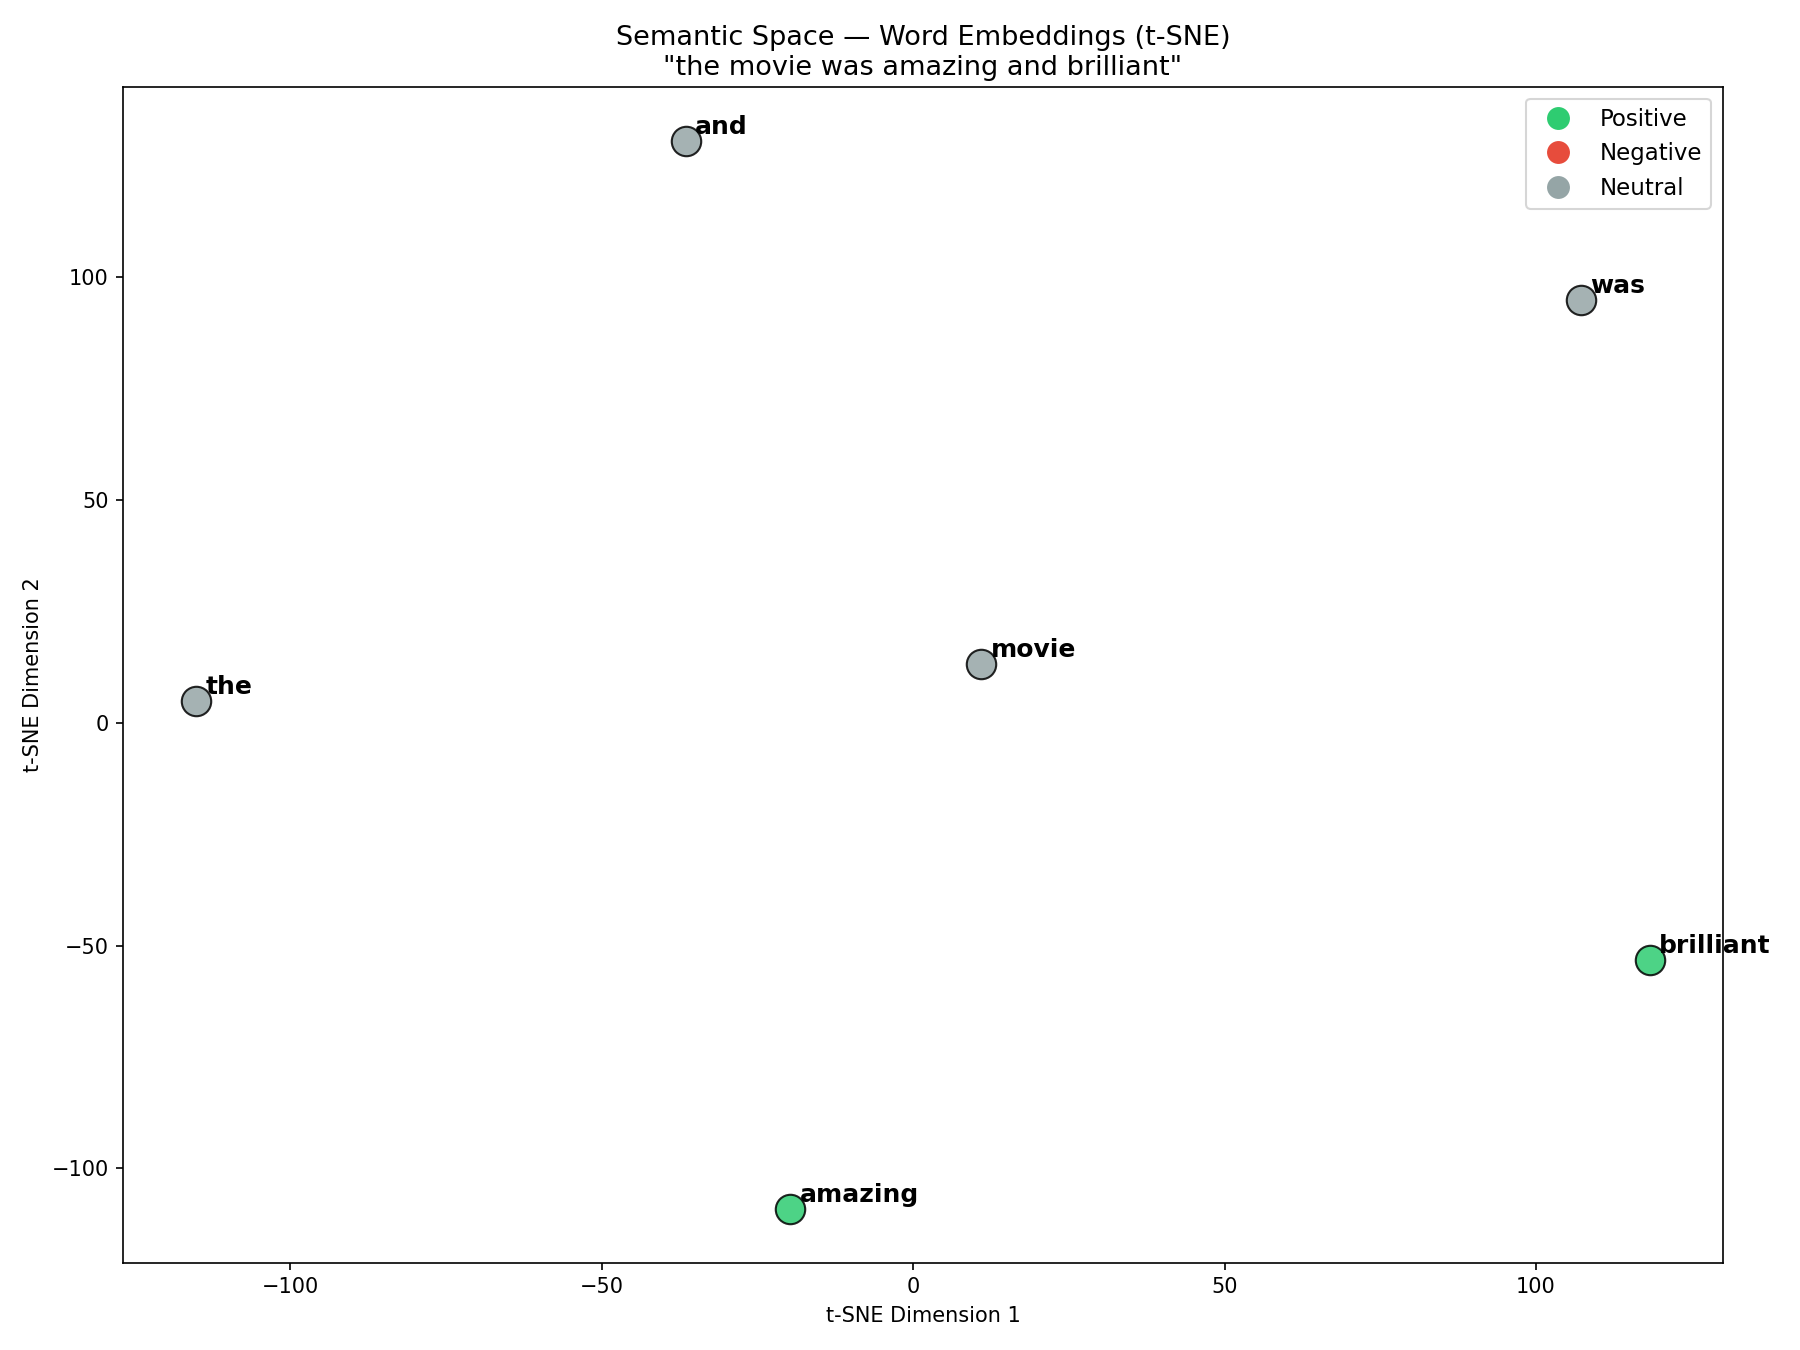
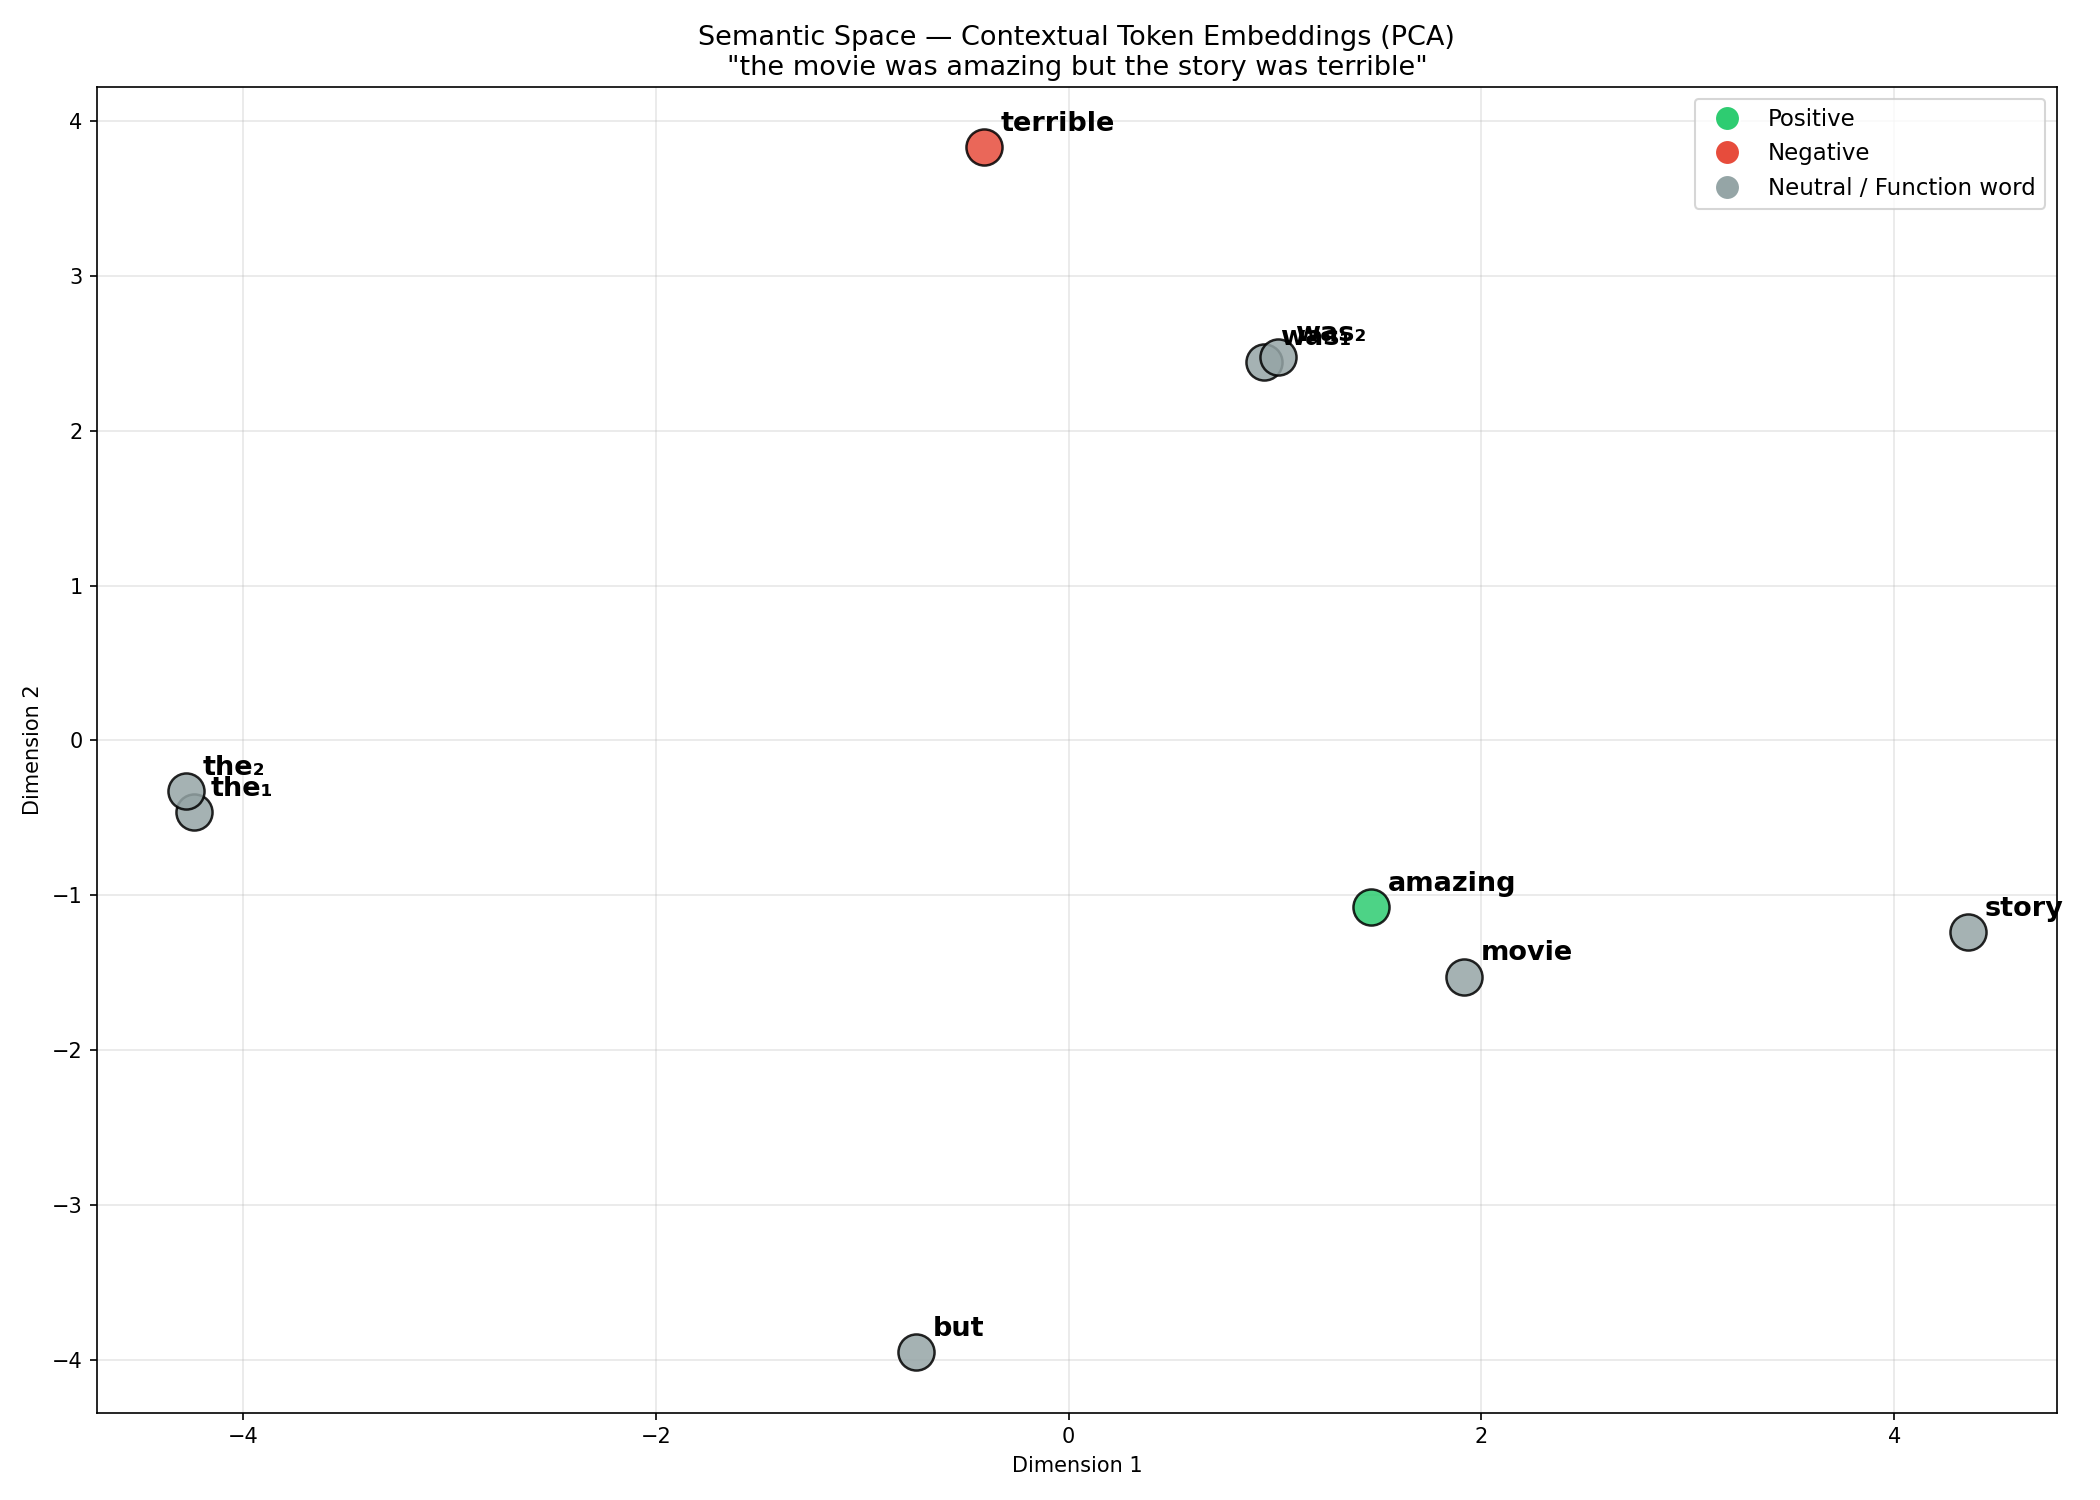
Changing attention map file

diff --git a/visualization/attention.py b/visualization/attention.py
@@ -4,31 +4,26 @@ import torch
 import numpy as np
 import matplotlib.pyplot as plt
 import seaborn as sns
-from sklearn.manifold import TSNE
+from sklearn.decomposition import PCA
 from tiny_bert import TinyBERT, SimpleTokenizer
 
-# Resolve paths relative to project root
+
 _PROJECT_ROOT = os.path.dirname(os.path.dirname(os.path.abspath(__file__)))
 _DATA_DIR = os.path.join(_PROJECT_ROOT, "data")
 _OUTPUT_DIR = os.path.join(_PROJECT_ROOT, "outputs")
 
-
-# Words the model learned as positive/negative from training
+# Words to visualize
 POSITIVE_WORDS = {
     "amazing", "wonderful", "loved", "great", "fantastic", "brilliant",
-    "masterpiece", "best", "incredible", "outstanding", "beautiful",
-    "superb", "excellent", "inspiring", "remarkable", "stunning",
-    "delightful", "heartwarming", "perfect",
+    "masterpiece", "best", "excellent"
 }
 NEGATIVE_WORDS = {
     "terrible", "boring", "predictable", "bad", "worst", "awful",
-    "horrible", "disaster", "poorly", "dull", "disappointing", "painful",
-    "ugly", "dreadful", "weak", "hated", "poor", "lazy", "waste",
+    "horrible", "disaster", "disappointed"
 }
 
 
 def get_word_color(word):
-    """Color by semantic role: green=positive, red=negative, gray=neutral."""
     if word in POSITIVE_WORDS:
         return "#2ecc71"
     elif word in NEGATIVE_WORDS:
@@ -37,7 +32,7 @@ def get_word_color(word):
 
 
 def visualize_attention(bert_model, tokenizer, text, layer=0):
-    """Plot attention heatmap for a single sentence."""
+    """Plotting attention heatmap"""
     word_ids = tokenizer.encode(text, max_length=20, add_new_words=False)
     tokens = text.lower().split()
 
@@ -71,120 +66,111 @@ def visualize_attention(bert_model, tokenizer, text, layer=0):
 
 
 def run_visualization():
-    # Load training texts to rebuild vocabulary
-    training_texts = []
+    print("1. Rebuilding Tokenizer from reviews.csv")
+    tokenizer = SimpleTokenizer()
     csv_path = os.path.join(_DATA_DIR, "reviews.csv")
     with open(csv_path, newline="") as f:
         reader = csv.DictReader(f)
         for row in reader:
             if row["category"] in ("positive", "negative"):
-                training_texts.append(row["text"])
-
-    tokenizer = SimpleTokenizer()
-    for text in training_texts:
-        tokenizer.encode(text)
+                tokenizer.encode(row["text"])
+    print(f"   Vocabulary size: {len(tokenizer.word_to_id)}")
 
     # Load the fine-tuned BERT encoder
+    print("2. Loading Model")
     bert_model = TinyBERT(vocab_size=len(tokenizer.word_to_id), hidden_size=32, num_layers=2)
     model_path = os.path.join(_OUTPUT_DIR, "trained_bert.pt")
+
+    if not os.path.exists(model_path):
+        print(f"ERROR: '{model_path}' not found.")
+        print("Run 'python -m tasks.sentiment' first to train and save the model.")
+        return
+
     bert_model.load_state_dict(torch.load(model_path, weights_only=True))
     bert_model.eval()
-    print(f"Loaded fine-tuned BERT encoder from '{model_path}'")
+    print(f"   Loaded fine-tuned BERT from '{model_path}'")
 
+    # Attention Heatmaps
     sentence = "the movie was amazing and brilliant"
+    print(f"\n3. Generating Attention Maps for: '{sentence}'")
 
     output_dir = os.path.join(_OUTPUT_DIR, "attention_maps")
     os.makedirs(output_dir, exist_ok=True)
 
-    # Attention heatmaps for both layers
     for layer in range(2):
         fig = visualize_attention(bert_model, tokenizer, sentence, layer=layer)
         filename = os.path.join(output_dir, f"attention_layer{layer + 1}.png")
         fig.savefig(filename, dpi=150)
-        print(f"Saved: {filename}")
+        print(f"   Saved: {filename}")
         plt.close(fig)
 
-    # Semantic Space: t-SNE of word embeddings for this sentence
-    print("\nGenerating semantic space visualization...")
+    semantic_sentence = "the movie was amazing but the story was terrible"
+    print(f"\n4. Generating Semantic Space for: '{semantic_sentence}'")
 
+    tokens = semantic_sentence.lower().split()
     word_embeddings = bert_model.word_embed.weight.detach().numpy()
 
-    # Get unique words from the sentence and their embeddings
-    tokens = sentence.lower().split()
-    seen = set()
-    unique_words = []
+
+    embeddings = []
     for w in tokens:
-        if w not in seen and w in tokenizer.word_to_id:
-            unique_words.append(w)
-            seen.add(w)
+        wid = tokenizer.word_to_id.get(w, 1)
+        embeddings.append(word_embeddings[wid])
+    embeddings = np.array(embeddings)
 
-    word_ids = [tokenizer.word_to_id[w] for w in unique_words]
-    embeddings = word_embeddings[word_ids]
+    # Build display labels
+    word_counts = {}
+    display_labels = []
+    subscripts = "₁₂₃₄₅₆₇₈₉"
+    for word in tokens:
+        word_counts[word] = word_counts.get(word, 0) + 1
+    occurrence = {}
+    for word in tokens:
+        if word_counts[word] > 1:
+            occurrence[word] = occurrence.get(word, 0) + 1
+            display_labels.append(f"{word}{subscripts[occurrence[word] - 1]}")
+        else:
+            display_labels.append(word)
 
-    # t-SNE: 32 dimensions -> 2 dimensions
-    perp = min(5, len(embeddings) - 1)
-    tsne = TSNE(n_components=2, perplexity=perp, random_state=42, init="pca", learning_rate="auto")
-    reduced = tsne.fit_transform(embeddings)
+    # PCA: 32-d  →  2-d
+    pca = PCA(n_components=2)
+    reduced = pca.fit_transform(embeddings)
 
-    # Color each word by sentiment role
-    token_colors = [get_word_color(w) for w in unique_words]
+    np.random.seed(42)
+    seen_positions = {}
+    for i, word in enumerate(tokens):
+        key = tokenizer.word_to_id.get(word, 1)
+        if key in seen_positions:
+            reduced[i] += np.random.uniform(-0.15, 0.15, size=2)
+        seen_positions[key] = i
 
-    plt.figure(figsize=(12, 9))
-    for i, word in enumerate(unique_words):
-        plt.scatter(reduced[i, 0], reduced[i, 1], c=token_colors[i], s=200,
-                    edgecolor="black", alpha=0.85, zorder=2)
-        plt.annotate(word, (reduced[i, 0] + 1.5, reduced[i, 1] + 1.5),
-                     fontsize=12, fontweight="bold")
+    # Plotting
+    token_colors = [get_word_color(w) for w in tokens]
+
+    plt.figure(figsize=(14, 10))
+    for i, (word, label) in enumerate(zip(tokens, display_labels)):
+        plt.scatter(reduced[i, 0], reduced[i, 1], c=token_colors[i], s=300,
+                    edgecolor="black", linewidth=1.2, alpha=0.85, zorder=2)
+        plt.annotate(label, (reduced[i, 0], reduced[i, 1]),
+                     textcoords="offset points", xytext=(8, 8),
+                     fontsize=13, fontweight="bold")
 
     from matplotlib.lines import Line2D
     legend_elements = [
         Line2D([0], [0], marker="o", color="w", label="Positive", markerfacecolor="#2ecc71", markersize=12),
         Line2D([0], [0], marker="o", color="w", label="Negative", markerfacecolor="#e74c3c", markersize=12),
-        Line2D([0], [0], marker="o", color="w", label="Neutral", markerfacecolor="#95a5a6", markersize=12),
+        Line2D([0], [0], marker="o", color="w", label="Neutral / Function word", markerfacecolor="#95a5a6", markersize=12),
     ]
     plt.legend(handles=legend_elements, loc="best", fontsize=11)
 
-    plt.title(f"Semantic Space — Word Embeddings (t-SNE)\n\"{sentence}\"", fontsize=13)
-    plt.xlabel("t-SNE Dimension 1")
-    plt.ylabel("t-SNE Dimension 2")
+    plt.title(f"Semantic Space — Contextual Token Embeddings (PCA)\n\"{semantic_sentence}\"", fontsize=13)
+    plt.xlabel("Dimension 1")
+    plt.ylabel("Dimension 2")
+    plt.grid(True, alpha=0.3)
     plt.tight_layout()
-    tsne_path = os.path.join(output_dir, "semantic_space.png")
-    plt.savefig(tsne_path, dpi=150)
-    print(f"Saved: {tsne_path}")
-    plt.close()
-
-    # Cosine similarity heatmap for the sentence tokens (using contextual hidden states)
-    print("Generating cosine similarity heatmap...")
-    word_ids_sent = tokenizer.encode(sentence, max_length=20, add_new_words=False)
-    input_ids = torch.tensor([word_ids_sent])
-    with torch.no_grad():
-        hidden_states = bert_model(input_ids)
-
-    sent_tokens = sentence.lower().split()
-    num_real = min(len(sent_tokens), 20)
-    sent_tokens = sent_tokens[:num_real]
-    sent_embeddings = hidden_states[0, :num_real, :].numpy()
-
-    norms = np.linalg.norm(sent_embeddings, axis=1, keepdims=True)
-    cosine_sim = (sent_embeddings @ sent_embeddings.T) / (norms @ norms.T)
-
-    plt.figure(figsize=(10, 8))
-    sns.heatmap(
-        cosine_sim,
-        xticklabels=sent_tokens,
-        yticklabels=sent_tokens,
-        cmap="RdYlGn",
-        annot=True,
-        fmt=".2f",
-        square=True,
-        vmin=-1, vmax=1,
-    )
-    plt.title(f"Cosine Similarity Between Token Embeddings\n\"{sentence}\"")
-    plt.tight_layout()
-    cosine_path = os.path.join(output_dir, "cosine_similarity.png")
-    plt.savefig(cosine_path, dpi=150)
-    print(f"Saved: {cosine_path}")
-    plt.close()
+    save_path = os.path.join(output_dir, "semantic_space.png")
+    plt.savefig(save_path, dpi=150)
+    print(f"   Saved: {save_path}")
+    plt.show()
 
 
 if __name__ == "__main__":

diff --git a/README.md b/README.md
@@ -108,6 +108,11 @@ Visualize attention heatmaps, semantic space, and cosine similarity:
 python -m visualization.attention
 ```
 
+The plot visualize how the model understands language:
+- **Grammar**: Function words like *`the`* and *`was`* are clustered tightly together
+- **Sentiment**: amazing (positive) and terrible (negative) are pushed to opposite ends
+
+![semantic_space.png](outputs/attention_maps/semantic_space.png)
 
 ##  References
 
